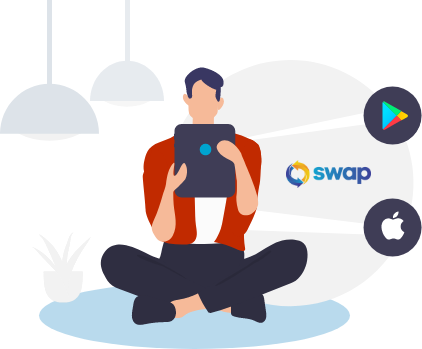
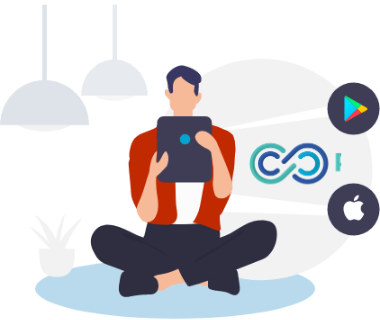
update img

diff --git a/src/page/Login/Login.js b/src/page/Login/Login.js
@@ -2,11 +2,10 @@ import React, { useContext, useState } from "react";
 import toast from "react-hot-toast";
 import { Link, useLocation, useNavigate } from "react-router-dom";
 import { setAuthToken } from "../../api/auth";
+import loginIMg from '../../assets/login.png';
 import PrimaryButton from "../../Components/Button/PrimaryButton";
 import SmallSpinner from "../../Components/Spinner/SmallSpinner";
 import { AuthContext } from "../../contexts/AuthProvider";
-
-
 
 const Login = () => {
   const [accuntType, setAccountType] = useState("user");
@@ -26,19 +25,19 @@ const Login = () => {
     signin(email, password)
       .then((res) => {
         toast.success("Logine Success..");
-        setAuthToken(res)
+        setAuthToken(res);
         navigate(from, { replace: true });
       })
       .catch((err) => {
         toast.error(err.message);
         setLoading(false);
-        event.target.reset()
+        event.target.reset();
       });
   };
 
   const handelSignInWithGoogle = () => {
     signInWithGoogle().then((result) => {
-      setAuthToken(result , accuntType)
+      setAuthToken(result, accuntType);
       navigate(from, { replace: true });
 
       console.log("Google user :>> ", result);
@@ -46,7 +45,7 @@ const Login = () => {
   };
 
   return (
-    <div className="flex justify-center items-center pt-8">
+    <div className="flex justify-center items-center pt-8   gap-5">
       <div className="flex flex-col max-w-md p-6 rounded-md sm:p-10 bg-gray-100 text-gray-900">
         <div className="mb-8 text-center">
           <h1 className="my-3 text-4xl font-bold">Sign in</h1>
@@ -127,16 +126,20 @@ const Login = () => {
               <path d="M16.318 13.714v5.484h9.078c-0.37 2.354-2.745 6.901-9.078 6.901-5.458 0-9.917-4.521-9.917-10.099s4.458-10.099 9.917-10.099c3.109 0 5.193 1.318 6.38 2.464l4.339-4.182c-2.786-2.599-6.396-4.182-10.719-4.182-8.844 0-16 7.151-16 16s7.156 16 16 16c9.234 0 15.365-6.49 15.365-15.635 0-1.052-0.115-1.854-0.255-2.651z"></path>
             </svg>
           </button>
-         
-         
         </div>
         <p className="px-6 text-sm text-center text-gray-400">
           Don't have an account yet?{" "}
-          <Link to="/signup" className="hover:underline text-green-700 hover:text-secondary font-semibold">
+          <Link
+            to="/signup"
+            className="hover:underline text-green-700 hover:text-secondary font-semibold"
+          >
             Sign up
           </Link>
           .
         </p>
+      </div>
+      <div className="items-end">
+        <img src={loginIMg} alt="" />
       </div>
     </div>
   );

diff --git a/src/page/Login/Signup.js b/src/page/Login/Signup.js
@@ -2,6 +2,7 @@ import React, { useContext, useState } from "react";
 import toast from "react-hot-toast";
 import { Link, useLocation, useNavigate } from "react-router-dom";
 import { setAuthToken } from "../../api/auth";
+import loginIMg from "../../assets/login.png";
 import PrimaryButton from "../../Components/Button/PrimaryButton";
 import SmallSpinner from "../../Components/Spinner/SmallSpinner";
 import { AuthContext } from "../../contexts/AuthProvider";
@@ -210,7 +211,7 @@ const Signup = () => {
         </p>
       </div>
       <div>
-        <img src="https://swap.com.bd/_nuxt/img/login-img.01f82b2.png" alt="" />
+        <img src={loginIMg} alt="" />
       </div>
     </div>
   );

diff --git a/src/page/Home/Banner/Banner.js b/src/page/Home/Banner/Banner.js
@@ -1,7 +1,7 @@
 import React from "react";
-import img1 from "../../../assets/banner/1.jpg";
-import img2 from "../../../assets/banner/2.jpg";
-import img3 from "../../../assets/banner/3.jpg";
+import img2 from "../../../assets/banner/1.png";
+import img1 from "../../../assets/banner/2.png";
+import img3 from "../../../assets/banner/3.png";
 
 
 

diff --git a/src/page/Home/Adverties/Adverties.js b/src/page/Home/Adverties/Adverties.js
@@ -40,7 +40,7 @@ const Adverties = () => {
   console.log("data", advatices);
   return (
     <div>
-      {advatices > 1 && (
+      {advatices  && (
         <div className="mb-5 mt-5 bg-gray-100 rounded-lg">
           <h1 className="text-center text-xl font-semibold text-secondary">
             Prodact Advatices
